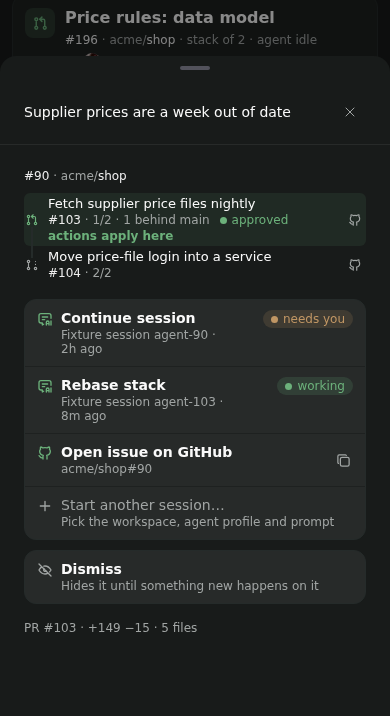
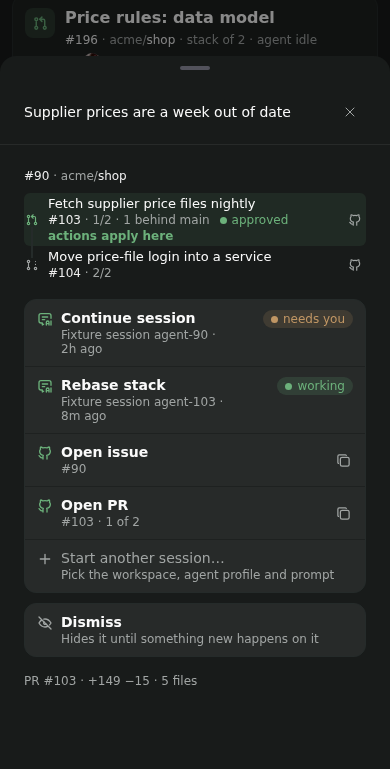
An issue's sheet opens its PR as readily as the issue: the GitHub line splits in two [ATT-12, ATT-15]
An issue with a PR gets "Open issue #90" and "Open PR #103 · 1 of 2" side by side, each with its own copy icon,
one above the other on phones. The PR is the one its actions apply to; in Next up, the first open PR against it.

diff --git a/client/sheet.tsx b/client/sheet.tsx
@@ -28,6 +28,9 @@ export interface SheetEntry {
   onPress: () => void;
   // A copy icon at the end of the line, so copying adds no line to the sheet [ATT-15].
   copy?: { text: string; label: string; done: string };
+  // A second half with the same weight, like an issue's PR beside the issue: side by side, or one above the other on
+  // phones, so neither half is cut short [ATT-12].
+  beside?: Pick<SheetEntry, "icon" | "label" | "detail" | "onPress" | "copy">;
   // A running session's state at the end of the line: the line opens it [SES-03, ATT-07].
   badge?: Chip;
   // Muted, for a line that's there on purpose but rarely wanted, like starting another session.
@@ -73,20 +76,47 @@ const INNER_RADIUS = 11;
 
 function Entry({ entry, first, last }: { entry: SheetEntry; first: boolean; last: boolean }) {
   const styles = useStyles();
+  const beside = entry.beside;
+  const stacked = !!beside && styles.compact;
+  const line = first ? null : { borderTopWidth: 1, borderTopColor: styles.c.surface1 };
+  if (!beside) {
+    return (
+      <View style={[styles.row, { gap: 0, alignItems: "stretch" }, line]}>
+        <Half entry={entry} corners={{ topLeft: first, bottomLeft: last, topRight: first, bottomRight: last }} />
+      </View>
+    );
+  }
+  // Two halves: side by side with a short divider, or on phones one above the other with a line like the sheet's own.
+  return (
+    <View style={[stacked ? null : [styles.row, { gap: 0, alignItems: "stretch" }], line]}>
+      <Half entry={entry} corners={stacked ? { topLeft: first, topRight: first } : { topLeft: first, bottomLeft: last }} />
+      {stacked ? (
+        <View style={{ height: 1, backgroundColor: styles.c.surface1 }} />
+      ) : (
+        <View style={{ width: 1, marginVertical: 8, backgroundColor: styles.c.border }} />
+      )}
+      <Half entry={{ key: `${entry.key}-beside`, ...beside }} corners={stacked ? { bottomLeft: last, bottomRight: last } : { topRight: first, bottomRight: last }} />
+    </View>
+  );
+}
+
+// A line's pressable part and its copy icon. The pressed and hovered fill follows the block's rounded corners where it
+// touches them; the copy icon has its own fill at the right.
+function Half({ entry, corners }: { entry: SheetEntry; corners: { topLeft?: boolean; bottomLeft?: boolean; topRight?: boolean; bottomRight?: boolean } }) {
+  const styles = useStyles();
   const { hovered, hover } = useHover();
   const copy = useCopy();
   const muted = styles.c.foregroundMuted;
   const dim = entry.disabled || entry.quiet;
-  // The pressed and hovered fill follows the block's rounded corners; the copy icon has its own at the right.
-  const corners = {
-    borderTopLeftRadius: first ? INNER_RADIUS : 0,
-    borderBottomLeftRadius: last ? INNER_RADIUS : 0,
-    borderTopRightRadius: first && !entry.copy ? INNER_RADIUS : 0,
-    borderBottomRightRadius: last && !entry.copy ? INNER_RADIUS : 0,
+  const radius = {
+    borderTopLeftRadius: corners.topLeft ? INNER_RADIUS : 0,
+    borderBottomLeftRadius: corners.bottomLeft ? INNER_RADIUS : 0,
+    borderTopRightRadius: corners.topRight && !entry.copy ? INNER_RADIUS : 0,
+    borderBottomRightRadius: corners.bottomRight && !entry.copy ? INNER_RADIUS : 0,
   };
   const detail = entry.detailNode ?? (entry.detail ? <Text style={styles.muted}>{entry.detail}</Text> : null);
   return (
-    <View style={[styles.row, { gap: 0, alignItems: "stretch" }, first ? null : { borderTopWidth: 1, borderTopColor: styles.c.surface1 }]}>
+    <View style={[styles.row, { flex: 1, gap: 0, alignItems: "stretch", minWidth: 0 }]}>
       <Pressable
         accessibilityRole="button"
         // The button's name is all a screen reader says of it, so a hint goes in it too.
@@ -97,7 +127,7 @@ function Entry({ entry, first, last }: { entry: SheetEntry; first: boolean; last
         {...hover}
         style={({ pressed }) => [
           styles.row,
-          corners,
+          radius,
           { flex: 1, alignItems: "flex-start", paddingVertical: 10, paddingHorizontal: 12, backgroundColor: pressed || hovered ? styles.c.border : "transparent" },
         ]}
       >
@@ -127,6 +157,37 @@ function Entry({ entry, first, last }: { entry: SheetEntry; first: boolean; last
       ) : null}
     </View>
   );
+}
+
+// The line that opens an item on GitHub, for anything Attention Span doesn't cover [ATT-12], with its link to share [ATT-15].
+// An issue with a PR has the PR beside it, with the same weight, so reaching the PR doesn't mean going through the issue;
+// in a stack it's the PR the actions apply to, and says where it sits.
+export function githubEntry(
+  item: { kind: "pr" | "issue"; repo: string; number: number; url: string },
+  onOpen: (url: string) => void,
+  pr?: { number: number; url: string; stack?: { number: number }[] },
+): SheetEntry {
+  const copy = (number: number, url: string) => ({ text: url, label: `Copy link to #${number}`, done: `Copied link to #${number}` });
+  if (!pr || item.kind !== "issue") {
+    return { key: "github", icon: "github", label: `Open ${item.kind === "issue" ? "issue" : "PR"} on GitHub`, detail: `${item.repo}#${item.number}`, onPress: () => onOpen(item.url), copy: copy(item.number, item.url) };
+  }
+  // The repo is on the sheet's top line already, so each half says only its number.
+  const place = pr.stack && pr.stack.length > 1 ? pr.stack.findIndex((p) => p.number === pr.number) : -1;
+  return {
+    key: "github",
+    icon: "github",
+    label: "Open issue",
+    detail: `#${item.number}`,
+    onPress: () => onOpen(item.url),
+    copy: copy(item.number, item.url),
+    beside: {
+      icon: "github",
+      label: "Open PR",
+      detail: place >= 0 ? `#${pr.number} · ${place + 1} of ${pr.stack!.length}` : `#${pr.number}`,
+      onPress: () => onOpen(pr.url),
+      copy: copy(pr.number, pr.url),
+    },
+  };
 }
 
 // A state as a pill on a soft tint of its tone.

diff --git a/client/attention-screen.tsx b/client/attention-screen.tsx
@@ -21,7 +21,7 @@ import { NumberText, PlaceText } from "./entity";
 import { NextUpList } from "./next-up";
 import { Still } from "./still";
 import { agentSignal, sessionEntry, startAnotherEntry } from "./session-menu";
-import { ActionSheet, DETAILS_STALE_MS, DetailLines, type DetailsQuery, detailsKey, FadeIn, Modal, type SheetEntry, useArrived, usePrefetchOnRest } from "./sheet";
+import { ActionSheet, DETAILS_STALE_MS, DetailLines, type DetailsQuery, detailsKey, FadeIn, githubEntry, Modal, type SheetEntry, useArrived, usePrefetchOnRest } from "./sheet";
 import { FeedbackAsk, FeedbackLine, type FeedbackScreen, FeedbackSheet } from "./feedback";
 import { branchWorkspaces, type FetchProviders, findCheckout, githubProjects, itemAgents, listProfiles, noProjectMessage, resolveAgentConfig, startSession } from "./sessions";
 import { SetupChecklist } from "./setup";
@@ -872,15 +872,9 @@ function sheetEntries(
       entries.push({ key: action, icon: ACTION_ICONS[action], label, detail: actionDetail(action, item), housekeeping: action === "close", onPress: () => onPerform(action) });
     }
   }
-  // Anything Attention Span doesn't cover [ATT-12], and its link to share [ATT-15].
-  entries.push({
-    key: "github",
-    icon: "github",
-    label: `Open ${item.kind === "issue" ? "issue" : "PR"} on GitHub`,
-    detail: `${item.repo}#${item.number}`,
-    onPress: close(() => void openExternalUrl(item.url)),
-    copy: { text: item.url, label: `Copy link to #${item.number}`, done: `Copied link to #${item.number}` },
-  });
+  // Anything Attention Span doesn't cover [ATT-12], with an issue's PR beside it.
+  const pr = targetUrl(item) && item.target.kind === "pr" ? item.target : undefined;
+  entries.push(githubEntry(item, (url) => close(() => void openExternalUrl(url))(), pr));
   // Nothing's left to start on once it's merged or closed.
   if (!item.closedAt) entries.push(startAnotherEntry(sessions.length > 0, withOptions("Start session", fallbackKind(item))));
   if (inDoing) entries.push({ key: "dismiss", icon: "dismiss", label: "Dismiss", detail: "Hides it until something new happens on it", housekeeping: true, onPress: close(() => actions.dismiss(item)) });

diff --git a/client/next-up.tsx b/client/next-up.tsx
@@ -20,7 +20,7 @@ import type { IconName } from "./icons";
 import type { FetchDetails } from "./attention-screen";
 import { CardList, CardRow, type Tone } from "./card";
 import { sessionEntry, startAnotherEntry } from "./session-menu";
-import { ActionSheet, DETAILS_STALE_MS, DetailLines, type DetailsQuery, detailsKey, Modal, type SheetEntry, usePrefetchOnRest } from "./sheet";
+import { ActionSheet, DETAILS_STALE_MS, DetailLines, type DetailsQuery, detailsKey, githubEntry, Modal, type SheetEntry, usePrefetchOnRest } from "./sheet";
 import { githubColor, IssuePills, PlaceText } from "./entity";
 import { Button, KeepStyles, Meta, SectionHeader, TablerIcon, useHover, useStyles } from "./ui";
 
@@ -395,7 +395,8 @@ function IssueSheet({
     claim
       ? { key: "claim", icon: "claim", label: "Claim", detail: "Assigns you, without starting a session", onPress: close(() => onClaim(issue, true)) }
       : { key: "unclaim", icon: "unclaim", label: "Unclaim", detail: "Removes you as assignee, so it goes back to Unclaimed", housekeeping: true, onPress: close(() => onClaim(issue, false)) },
-    { key: "github", icon: "github", label: "Open issue on GitHub", detail: `${issue.repo}#${issue.number}`, onPress: close(() => void openExternalUrl(issue.url)) },
+    // Someone's PR open against it sits beside the issue [ATT-12].
+    githubEntry({ kind: "issue", ...issue }, (url) => close(() => void openExternalUrl(url))(), issue.openPrs[0]),
     ...(sessions.length ? [startAnotherEntry(true, withOptions)] : []),
     // Giving it up or closing it sits apart, below the work [ATT-06].
     { key: "close", icon: "issueClosed", label: "Close issue", detail: "Asks first: as completed or not planned, with an optional comment", housekeeping: true, onPress: close(onCloseIssue) },

diff --git a/docs/architecture.md b/docs/architecture.md
@@ -113,7 +113,7 @@ Projects are extra, so they never cost the searches they ride on (`server/projec
 A card shows its main action and ›. Tapping the card or › opens its **sheet**, a bottom sheet on phones and a dialog on desktop [ATT-06]. When the sheet would hold a single action, as on Waiting and History cards where it's only Open PR (or issue) on GitHub, the card shows that action instead of ›; tapping the card still opens the sheet. History cards also have a copy icon that copies the item's URL [ATT-15]. Top to bottom, the sheet has:
 
 1. **What the card knows:** repo#number, its chips, the full quote and the full stack. Each PR in the stack opens on GitHub, so an issue's PRs are a tap away [ATT-12]. On an issue, the PR its actions apply to is tinted in the stack and says "actions apply here", and its chips are said once, on its row: the top keeps only what the row doesn't say [ATT-04].
-2. **Every action,** each with a line saying what it will do, in one list, with what takes the item off my list or gives it up (Dismiss, Unclaim, Close issue, Close PR) apart below the work, icons quiet. A session action's line asks first: it ends in "…" and opens Options, since the card's button is the one-tap start [SES-01, SES-02]. Once a session of that kind runs, the line opens it instead and shows its state as a badge (working, idle, needs you, failed) [SES-03, ATT-07]. Then Open issue or Open PR on GitHub [ATT-12], with a copy icon at its end that copies the URL without adding a line [ATT-15], a muted "Start a session…" ("Start another session…" once there is one) for a session with no action preset [SES-02], and Dismiss [ATT-08].
+2. **Every action,** each with a line saying what it will do, in one list, with what takes the item off my list or gives it up (Dismiss, Unclaim, Close issue, Close PR) apart below the work, icons quiet. A session action's line asks first: it ends in "…" and opens Options, since the card's button is the one-tap start [SES-01, SES-02]. Once a session of that kind runs, the line opens it instead and shows its state as a badge (working, idle, needs you, failed) [SES-03, ATT-07]. Then Open issue or Open PR on GitHub [ATT-12], with a copy icon at its end that copies the URL without adding a line [ATT-15]. An issue with a PR splits that line in two halves of the same weight, "Open issue #90" and "Open PR #103 · 1 of 2", each with its own copy icon, side by side on desktop and one above the other on phones: the PR is the one its actions apply to (in Next up, the first open PR against it), so reaching it doesn't mean going through the issue on GitHub. Then a muted "Start a session…" ("Start another session…" once there is one) for a session with no action preset [SES-02], and Dismiss [ATT-08].
 3. **What's fetched when it opens,** in one GraphQL request, so the refresh stays as light as before [GH-01]: the PR's size, led by its number on an issue's sheet ("PR #103 · +149 −15 · 5 files"), and the linked issue or PRs, leaving out PRs the stack already shows. It comes last so the actions don't move when it arrives. The description isn't shown; making sense of it takes GitHub anyway.
 
 An agent icon (Tabler's `message-ai`, a speech bubble with "AI") marks every action that starts or continues an agent session, marked *(agent)* below; the rest change GitHub right away [ATT-13]. GitHub actions don't ask first, apart from Merge and Close. Instead an Undo row appears, where GitHub can take it back, until I switch tabs [ATT-14].

diff --git a/.claude/skills/verify-plugin/SKILL.md b/.claude/skills/verify-plugin/SKILL.md
@@ -32,7 +32,7 @@ Never connect a browser, SDK client or script to the Paseo daemon that runs you 
    |---|---|
    | `<layout>-doing.png` | Doing tab, every section |
    | `<layout>-doing-sheet.png` | The sheet of "Show delivery dates on the order page" (a bottom sheet on phones): what the card knows, with "⌛ alice", asked to review and not yet (the requested review bot isn't shown) [PRS-15], then Fix CI as its running session with a "working" badge, Rerun failed jobs with the made-up failing checks on one line ("N failed · names · not rerun" or an amber "↻ rerun once"), a muted "Start another session…", Dismiss apart in a block of its own with a grey icon, then the fetched size |
-   | `<layout>-doing-issue-sheet.png` | The sheet of the issue "Supplier prices are a week out of date": "#90 · acme/shop" on top with no PR facts repeated, its stack of PRs, each with a GitHub icon and opening that PR, #103 tinted with "actions apply here" and its "1 behind main" and "approved" said only there, then "Continue session" (no kind, needs you) first, Rebase stack as its working session, Open issue on GitHub, Dismiss apart, then "PR #103 · +… · … files" |
+   | `<layout>-doing-issue-sheet.png` | The sheet of the issue "Supplier prices are a week out of date": "#90 · acme/shop" on top with no PR facts repeated, its stack of PRs, each with a GitHub icon and opening that PR, #103 tinted with "actions apply here" and its "1 behind main" and "approved" said only there, then "Continue session" (no kind, needs you) first, Rebase stack as its working session, the GitHub line split into "Open issue #90" and "Open PR #103 · 1 of 2", each with a copy icon (one above the other on phones), Dismiss apart, then "PR #103 · +… · … files" |
    | `<layout>-doing-stack-issue-sheet.png` | The sheet of the issue "The calendar can't be used with a keyboard": the a11y stack (#105–#107) that GitHub links to no issue, grouped under it because its bottom PR says "for #132" and its top PR "Closes #132" |
    | `<layout>-doing-review.png` | Review requested: the "Price rules" stack as one item with "stack of 2" and "agent idle", and "Add a status page" with an "agent working" chip and Open session, from a session started outside Attention Span [SES-08]. Each shows its author as "✏ bob", without a time [ATT-19] |
    | `<layout>-doing-review-sheet.png` | The sheet of "Add a status page": "Continue session" (no kind, working) first, then Review… still offered, Open PR on GitHub, a muted "Start another session…" |
